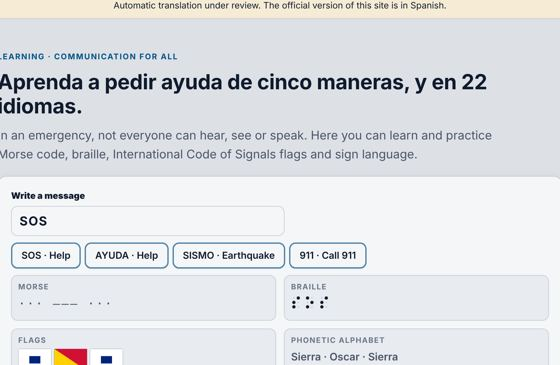
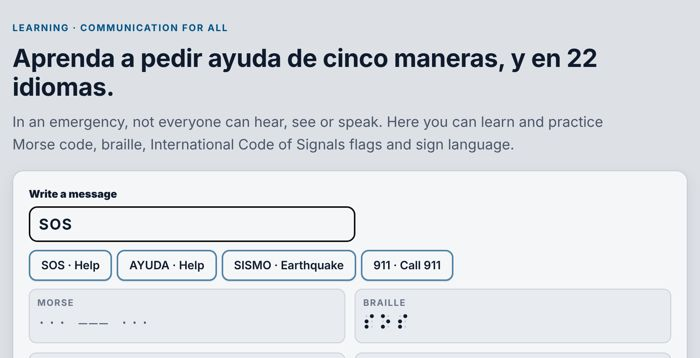
Obras en orden de seguimiento, 1ntertopía separada, imágenes únicas y completas; música sin cortar la del visitante en celular y botón de parar resaltado 5 s
Asistencia-IA

diff --git a/obras.js b/obras.js
@@ -78,5 +78,15 @@ const LOGO={'ContenedorEns©':'cont','Arsa Bodegas©':'arsa','Intertopía©':'in
 const RAIZ=(document.currentScript&&document.currentScript.src.includes('/propuesta/'))?'../':'';
 P.forEach(p=>{const l=LOGO[p[1]];if(l)I['logo-'+l]=`<span class="logo-c"><img class="logo-obra" src="${RAIZ}logos/${l}.svg" alt="Logotipo de ${p[1]}" loading="lazy"><sup>${p[1].includes('™')?'™':'©'}</sup></span>`,p[3]='logo-'+l});
 // Imagen real de lo que se ve en cada obra (fotos de Arsa Bodegas©, capturas de las herramientas y figuras de SOSistem™)
-const FOTO={'ContenedorEns©':['contenedorens.jpg','Contenedor marítimo abierto'],'Arsa Bodegas©':['arsa.jpg','Hilera de mini bodegas en contenedores, El Sauzal'],'Trazabilidad de contenedores©':['trazabilidad.jpg','Puertas de contenedor con su número ISO 6346'],'Intertopía©':['intertopia.jpg','Gráfica del valor intertópico'],'Econotopía©':['econotopia.svg','Desarrollo del Cubo con la familia de obras'],'Cubo 33©':['cubo33.jpg','Cara del Cubo A–Z de 26 × 26'],'Cubo de Aprendizaje©':['aprende.jpg','Cubo de Aprendizaje en uso'],'Código Cúbico©':['codigo.jpg','Mensaje convertido en Código Cúbico'],'Lector Cúbico©':['codigo.jpg','Código Cúbico listo para leerse'],'Mensajero del Cubo':['mensajero.jpg','Mensajero del Cubo'],'Teclado Cubo©':['mensajero.jpg','Escritura en el formato del Cubo'],'Cubo Morse©':['morse.jpg','Cubo Morse en uso'],'Cubo Interior©':['interior.svg','Desarrollo interior del Cubo'],'SOSistem™':['sosistem.svg','Prototipo de sensores SOSistem™'],'Sensor SOSistem™':['sensor.svg','Nodo cúbico de 17 sensores']};
-const fotoObra=(n,cls)=>{const f=FOTO[n];return f?`<img class="${cls||'foto-obra'}" src="${RAIZ}fotos/${f[0]}" alt="${f[1]}" loading="lazy">`:''};
+const FOTO={'ContenedorEns©':['contenedorens.jpg','Contenedor marítimo abierto',1],'Arsa Bodegas©':['arsa.jpg','Hilera de mini bodegas en contenedores, El Sauzal',1],'Trazabilidad de contenedores©':['trazabilidad.jpg','Puertas de contenedor con su número ISO 6346',1],'Intertopía©':['intertopia-dle.jpg','Ediciones 23.ª y 24.ª del Diccionario de la lengua española y la propuesta'],'1ntertopía©':['1ntertopia-valor.jpg','Gráfica del valor intertópico'],'Econotopía©':['econotopia.svg','Desarrollo del Cubo con la familia de obras'],'Cubo 33©':['cubo33.jpg','Cara del Cubo A–Z de 26 × 26',1],'Cubo de Aprendizaje©':['aprende.jpg','Cubo de Aprendizaje: SOS en Morse y braille'],'Código Cúbico©':['codigo.jpg','Mensaje convertido en Código Cúbico'],'Mensajero del Cubo':['mensajero.jpg','Mensajero del Cubo: enviar y recibir'],'Cubo Interior©':['interior.svg','Desarrollo interior del Cubo'],'SOSistem™':['sosistem.svg','Prototipo de sensores SOSistem™',1],'Sensor SOSistem™':['sensor.svg','Nodo cúbico de 17 sensores',1]};
+const fotoObra=(n,cls)=>{const f=FOTO[n];return f?`<figure class="${cls||'foto-obra'}${f[2]?' cubre':''}"><img src="${RAIZ}fotos/${f[0]}" alt="${f[1]}" loading="lazy"></figure>`:''};
+
+// 1ntertopía© como obra propia, separada de Intertopía©
+P.push(['Concepto y valor','1ntertopía©','1ntertopía.com','logo-uno','Sistema de generación de valor del autor: aplica la intertopía a las finanzas, con reglas automatizadas sobre metales, ETF, acciones y tipos de cambio.','2606096034080','junio de 2026','1ntertopía©','2026','intertopia/#valor',S.inter]);
+MAS.push({t:'1ntertopía© es una obra distinta de Intertopía©: toma el concepto del espacio entre la utopía y la distopía y lo lleva a la generación de valor, con un ciclo automático de inversión, reglas de riesgo y reparto de utilidades.',rel:[['Intertopía©','2602144563892'],['Econotopía©','2610317507307']],h:[['Gráfica del valor intertópico','intertopia/#valor']]});
+I['logo-uno']=`<span class="logo-c"><img class="logo-obra" src="${RAIZ}logos/uno.svg" alt="Logotipo de 1ntertopía©" loading="lazy"><sup>©</sup></span>`;
+(function(){
+ const ORDEN=['ContenedorEns©','Arsa Bodegas©','Intertopía©','1ntertopía©','Econotopía©','CuboPY©','Código Cúbico©','Teclado Cubo©','Lector Cúbico©','Cubo de Aprendizaje©','Cubo Morse©','Mensajero del Cubo','Cubo Interior©','Cubo 33©','SOSistem™','Sensor SOSistem™','Trazabilidad de contenedores©','Registro mundial de naufragios'];
+ const par=P.map((p,i)=>[p,MAS[i]]); par.sort((a,b)=>ORDEN.indexOf(a[0][1])-ORDEN.indexOf(b[0][1]));
+ P.length=0;MAS.length=0;par.forEach(([p,m])=>{P.push(p);MAS.push(m)});
+})();

diff --git a/musica.js b/musica.js
@@ -1,7 +1,8 @@
 /* © 2026 Víctor Hugo Ramírez Salgado — música de fondo suave para la biblioteca. Asistencia-IA.
    Se reproduce con el reproductor oficial de YouTube (videos publicados por cada disquera).
    Empieza al primer toque en la página, con volumen 2 que sube poco a poco hasta 30.
-   En iPhone y iPad el sistema no deja que una página baje el volumen, así que ahí solo suena al tocar ♪.
+   En celulares y tabletas solo suena al tocar ♪: así no se corta la música que el visitante ya esté escuchando.
+   Al empezar, el botón de parar se ve más claro 5 segundos y luego vuelve a su tono tenue.
    Si el visitante la apaga, queda apagada en sus siguientes visitas. */
 (function(){
 const LISTA=[
@@ -12,6 +13,7 @@ const LISTA=[
  ['7GlsxNI4LVI','Hans Zimmer','Cornfield Chase (Interstellar)'],
  ['vPA6T0la6uI','Hans Zimmer','Day One (Interstellar)']];
 const VOL_INI=2, VOL_MAX=30, PASO_MS=4000; // empieza en 2 y sube 1 cada 4 s: llega a 30 en unos 2 minutos
+const MOVIL=/Android|iPhone|iPad|iPod|Mobile/i.test(navigator.userAgent)||(navigator.platform==='MacIntel'&&navigator.maxTouchPoints>1);
 const IOS=/iPhone|iPad|iPod/.test(navigator.userAgent)||(navigator.platform==='MacIntel'&&navigator.maxTouchPoints>1);
 let i=0, yt=null, listo=false, sonando=false, rampa=null, vol=VOL_INI;
 const leer=()=>{try{return localStorage.getItem('vhrs-musica')}catch(e){return null}};
@@ -19,7 +21,9 @@ const guardar=v=>{try{localStorage.setItem('vhrs-musica',v)}catch(e){}};
 
 const css=document.createElement('style');
 css.textContent=`.mus{position:fixed;left:14px;bottom:14px;z-index:40;display:flex;align-items:center;gap:8px;font:500 12px var(--f-txt,system-ui);opacity:.55;transition:opacity .3s}
-.mus:hover{opacity:1}
+.mus:hover,.mus.resalta{opacity:1}
+.mus.resalta #mus-btn{background:var(--acento,#8A6A3B);color:#fff;border-color:var(--acento,#8A6A3B);box-shadow:0 0 0 4px rgba(201,165,90,.35)}
+.mus #mus-btn{transition:background .8s,box-shadow .8s,color .8s}
 .mus button{width:30px;height:30px;border-radius:50%;border:1px solid var(--linea,#E2D3B4);background:var(--papel,#FBF7EE);color:var(--tinta,#2B2620);cursor:pointer;font-size:12px;line-height:1;padding:0}
 .mus .tema-son{max-width:240px;white-space:nowrap;overflow:hidden;text-overflow:ellipsis;color:var(--mut,#6E6457);font-style:italic;letter-spacing:.02em;pointer-events:none}
 body.biblioteca .mus .tema-son{color:#D9CBA8}
@@ -41,13 +45,14 @@ window.onYouTubeIframeAPIReady=function(){
    onError:()=>siguiente()}});
 };
 let pendiente=false;
-function tocar(){if(!listo){pendiente=true;if(!yt&&!window.YT)cargar();return}pendiente=false;yt.setVolume(VOL_INI);yt.playVideo();subir();sonando=true;rotulo()}
-function detener(){if(yt&&listo)yt.pauseVideo();clearInterval(rampa);sonando=false;rotulo()}
+let tRes=null;function resalta(){caja.classList.add('resalta');btn.title='Detener la música';clearTimeout(tRes);tRes=setTimeout(()=>caja.classList.remove('resalta'),5000)}
+function tocar(){if(!listo){pendiente=true;if(!yt&&!window.YT)cargar();return}pendiente=false;yt.setVolume(VOL_INI);yt.playVideo();subir();sonando=true;rotulo();resalta()}
+function detener(){caja.classList.remove('resalta');if(yt&&listo)yt.pauseVideo();clearInterval(rampa);sonando=false;rotulo()}
 function siguiente(){i=(i+1)%LISTA.length;if(!yt)return;yt.loadVideoById(LISTA[i][0]);yt.setVolume(vol);rotulo()}
 btn.onclick=e=>{e.stopPropagation();if(sonando){detener();guardar('off')}else{guardar('on');tocar()}};
 sigb.onclick=e=>{e.stopPropagation();siguiente()};
 // Los navegadores no dejan sonar música sin un toque: empieza al primer toque, suave, salvo que el visitante la haya apagado.
 cargar();
-const primerToque=e=>{if(e.target.closest&&e.target.closest('.mus'))return;document.removeEventListener('pointerdown',primerToque,true);document.removeEventListener('keydown',primerToque,true);if(leer()!=='off'&&!IOS)tocar()};
+const primerToque=e=>{if(e.target.closest&&e.target.closest('.mus'))return;document.removeEventListener('pointerdown',primerToque,true);document.removeEventListener('keydown',primerToque,true);if(leer()!=='off'&&!MOVIL)tocar()};
 document.addEventListener('pointerdown',primerToque,true);document.addEventListener('keydown',primerToque,true);
 })();

diff --git a/index.html b/index.html
@@ -8,8 +8,8 @@
 <link rel="canonical" href="https://victorhugoramirezsalgado.com/">
 <link rel="preconnect" href="https://fonts.googleapis.com"><link rel="preconnect" href="https://fonts.gstatic.com" crossorigin>
 <link href="https://fonts.googleapis.com/css2?family=Cormorant+Garamond:ital,wght@0,500;0,600;0,700;1,500&family=Inter:wght@400;500;600&display=swap" rel="stylesheet">
-<script src="fuentes.js?v=2026-11-15l"></script>
-<link rel="stylesheet" href="libro.css?v=2026-11-15l">
+<script src="fuentes.js?v=2026-11-15m"></script>
+<link rel="stylesheet" href="libro.css?v=2026-11-15m">
 </head>
 <body>
 <div class="libreria" aria-hidden="true"></div>
@@ -57,8 +57,8 @@
 </footer>
 
 
-<script src="obras.js?v=2026-11-15l"></script>
-<script src="lector.js?v=2026-11-15l"></script>
+<script src="obras.js?v=2026-11-15m"></script>
+<script src="lector.js?v=2026-11-15m"></script>
 <script>
 const R=[['Intertopía©','2602144563892'],['1ntertopía©','2606096034080'],['ContenedorEns© (nombre y logo)','2609046908752'],['Arsa Bodegas© (nombre y logo)','2609046908806'],['Econotopía© 2.0','2610317507307'],['Código Cúbico©','2610097276721'],['Teclado Cubo©','2610097277155'],['Cubo Morse©','2610257441754'],['Juego del Cubo©','2611097590138'],['Plataforma SOSistem™ (series A y B)','2611097590053'],['…y 15 registros más','25 en total']];
 document.getElementById('tabla').innerHTML=R.map(([o,n])=>`<tr><td>${o}</td><td>${n}</td></tr>`).join('');
@@ -66,6 +66,6 @@ const set=t=>{document.body.classList.toggle('biblioteca',t==='b');t1.setAttribu
 t1.onclick=()=>set('a');t2.onclick=()=>set('b');
 let tm='a';try{tm=localStorage.getItem('vhrs-tema')||'a'}catch(e){} if(location.hash.includes('biblioteca'))tm='b'; set(tm);
 </script>
-<script src="musica.js?v=2026-11-15l"></script>
+<script src="musica.js?v=2026-11-15m"></script>
 </body>
 </html>

diff --git a/libro.css b/libro.css
@@ -277,7 +277,13 @@ body.en-obra #vista-obra{display:block}
 .tapa .img:has(.logo-obra){width:auto}
 .pag .img:has(.logo-obra){width:auto;max-width:none}.pag .logo-obra{max-width:96px}
 .obra .img:has(.logo-obra){width:auto}.obra .logo-obra{max-width:96px}
-.foto-obra{display:block;width:100%;height:64px;object-fit:cover;border-radius:3px;margin:8px 0 4px;border:1px solid var(--linea);filter:sepia(.25) saturate(.85)}
-.foto-pag{display:block;width:78%;max-height:150px;object-fit:cover;margin:10px auto 0;border-radius:4px;border:1px solid var(--linea);filter:sepia(.2) saturate(.9)}
-.foto-grande{display:block;width:100%;max-height:300px;object-fit:cover;margin:16px 0 0;border-radius:6px;border:1px solid var(--linea)}
-@media (max-width:600px){.logo-obra{max-width:40px;border-radius:8px}.logo-c sup{font-size:9px;right:-9px}.foto-obra{height:40px;margin:5px 0 2px}.tapa .reg{display:none}.foto-pag{max-height:110px}}
+@media (max-width:600px){.logo-obra{max-width:40px;border-radius:8px}.logo-c sup{font-size:9px;right:-9px}.tapa .reg{display:none}.foto-pag{max-height:110px}}
+
+/* imagen de cada obra: completa y a escala (las fotos llenan el cuadro; capturas y figuras se ven enteras) */
+.foto-obra,.foto-pag,.foto-grande{margin:8px 0 2px;width:100%;aspect-ratio:16/9;border-radius:4px;border:1px solid var(--linea);background:#fff;overflow:hidden;display:flex;align-items:center;justify-content:center}
+.foto-obra img,.foto-pag img,.foto-grande img{width:100%;height:100%;object-fit:contain;display:block}
+.cubre img{object-fit:cover}
+.foto-pag{width:82%;margin:10px auto 0}
+.foto-grande{aspect-ratio:auto;max-height:360px;margin-top:16px}.foto-grande img{max-height:360px;height:auto}
+.tapa .foto-obra{margin-top:auto}
+@media (max-width:600px){.foto-obra{margin:5px 0 0;border-radius:3px}}

diff --git a/obra.html b/obra.html
@@ -6,8 +6,8 @@
 <title>Obra · Víctor Hugo Ramírez Salgado</title>
 <link rel="preconnect" href="https://fonts.googleapis.com"><link rel="preconnect" href="https://fonts.gstatic.com" crossorigin>
 <link href="https://fonts.googleapis.com/css2?family=Cormorant+Garamond:ital,wght@0,500;0,600;0,700;1,500&family=Inter:wght@400;500;600&display=swap" rel="stylesheet">
-<script src="fuentes.js?v=2026-11-15l"></script>
-<link rel="stylesheet" href="libro.css?v=2026-11-15l">
+<script src="fuentes.js?v=2026-11-15m"></script>
+<link rel="stylesheet" href="libro.css?v=2026-11-15m">
 </head>
 <body>
 <div class="libreria" aria-hidden="true"></div>
@@ -19,7 +19,7 @@
 <article class="obra" id="obra"></article>
 <footer>© 2026 Víctor Hugo Ramírez Salgado. Todos los derechos reservados.</footer>
 </div>
-<script src="obras.js?v=2026-11-15l"></script>
+<script src="obras.js?v=2026-11-15m"></script>
 <script>
 let k=P.findIndex(p=>slugObra(p[1])===new URLSearchParams(location.search).get('id')); if(k<0)k=0;
 document.title=`${P[k][1]} · Víctor Hugo Ramírez Salgado`;
@@ -30,6 +30,6 @@ document.getElementById('volver').href=`./#obra-${k+1}`;
 const set=t=>{document.body.classList.toggle('biblioteca',t==='b');t1.setAttribute('aria-pressed',t!=='b');t2.setAttribute('aria-pressed',t==='b');try{localStorage.setItem('vhrs-tema',t)}catch(e){}};
 t1.onclick=()=>set('a');t2.onclick=()=>set('b');let tm='a';try{tm=localStorage.getItem('vhrs-tema')||'a'}catch(e){}set(tm);
 </script>
-<script src="musica.js?v=2026-11-15l"></script>
+<script src="musica.js?v=2026-11-15m"></script>
 </body>
 </html>
